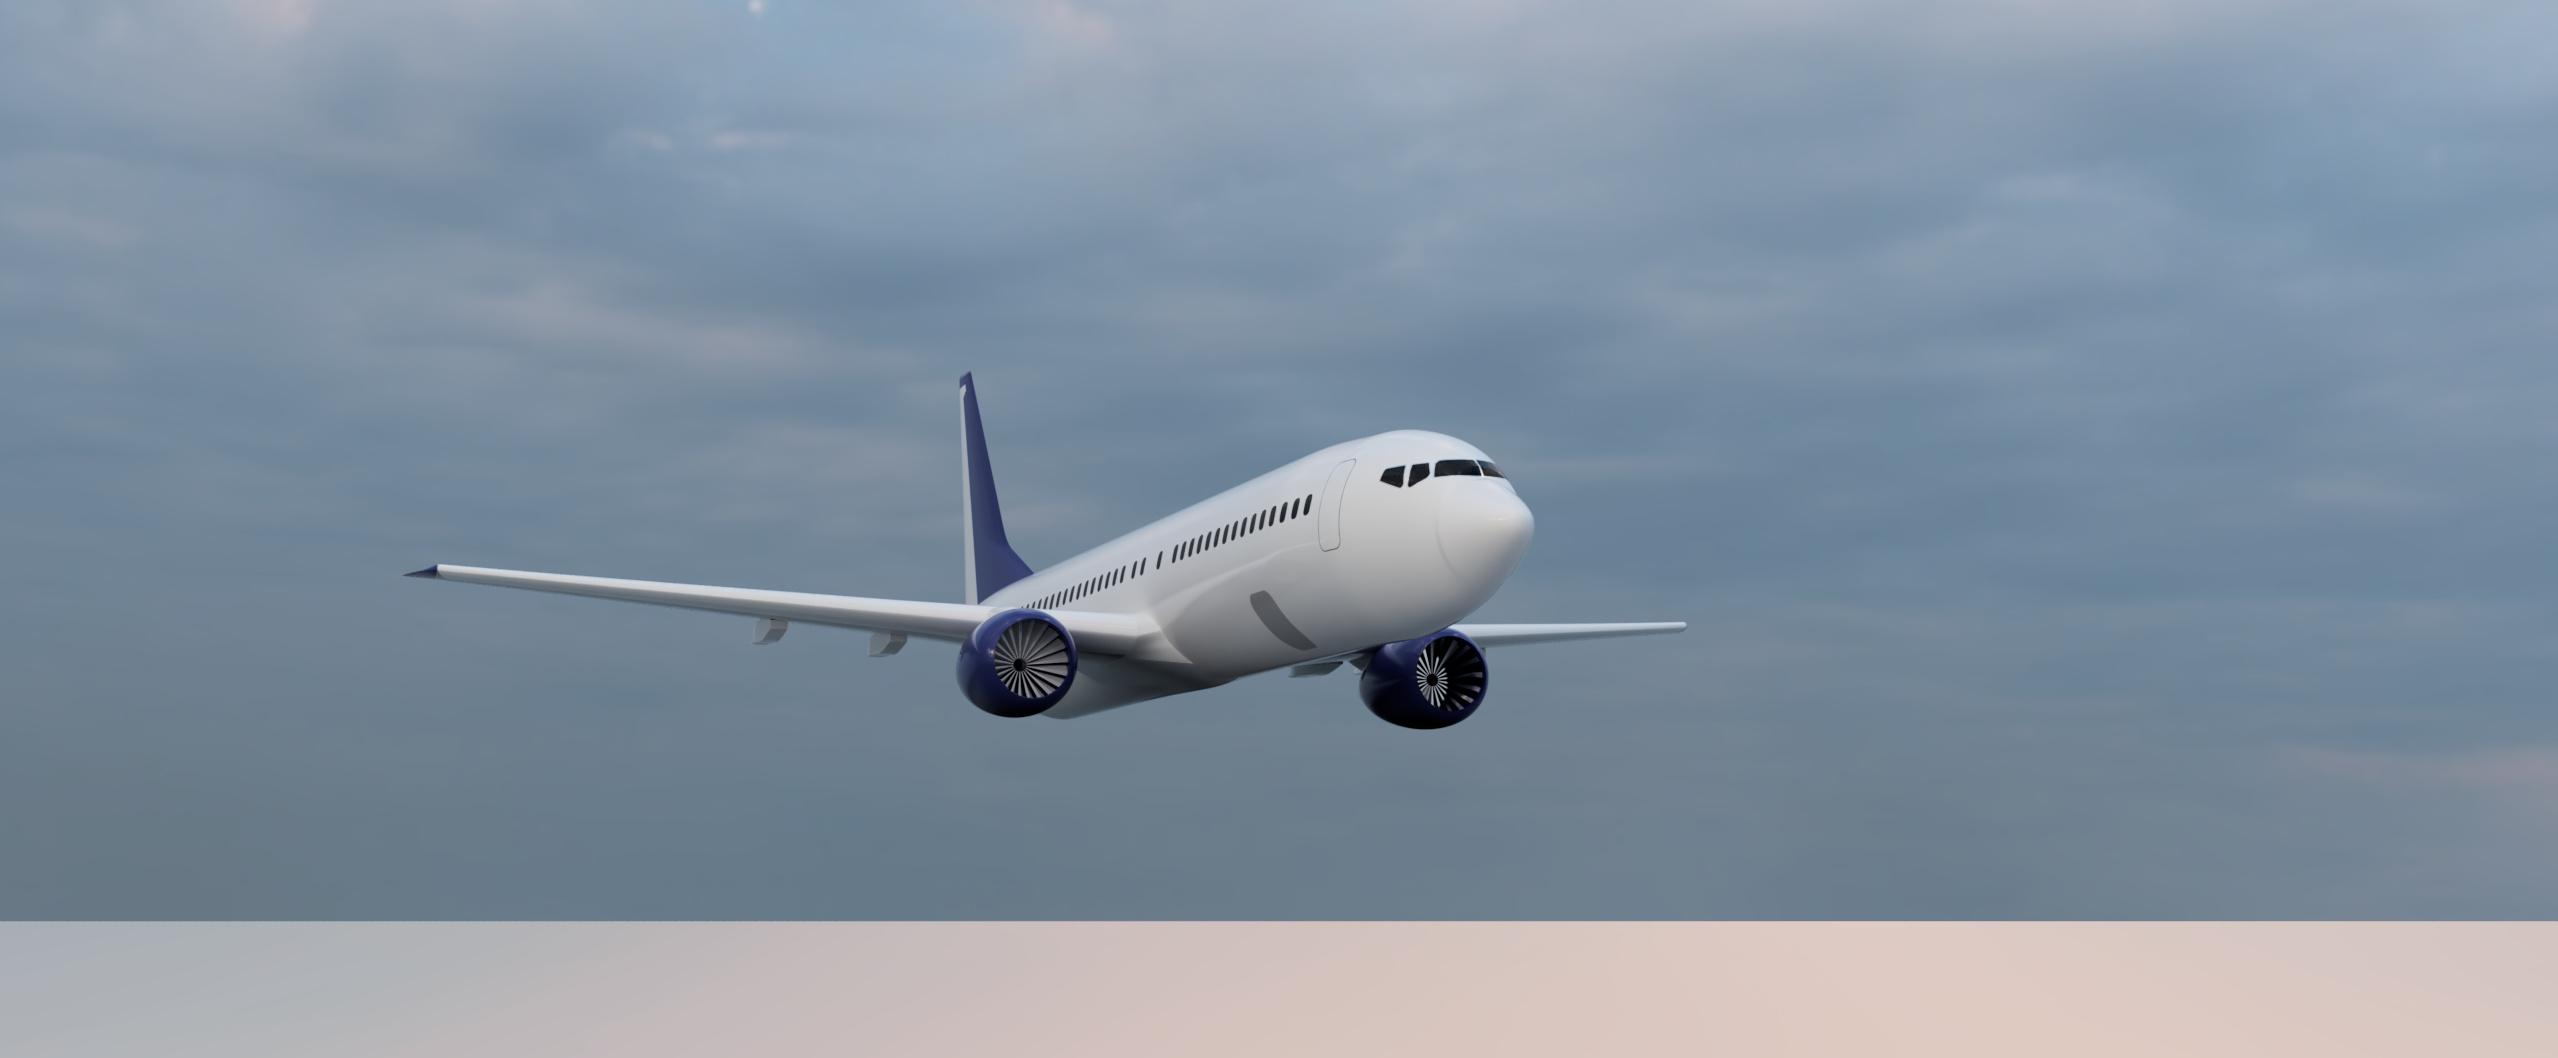
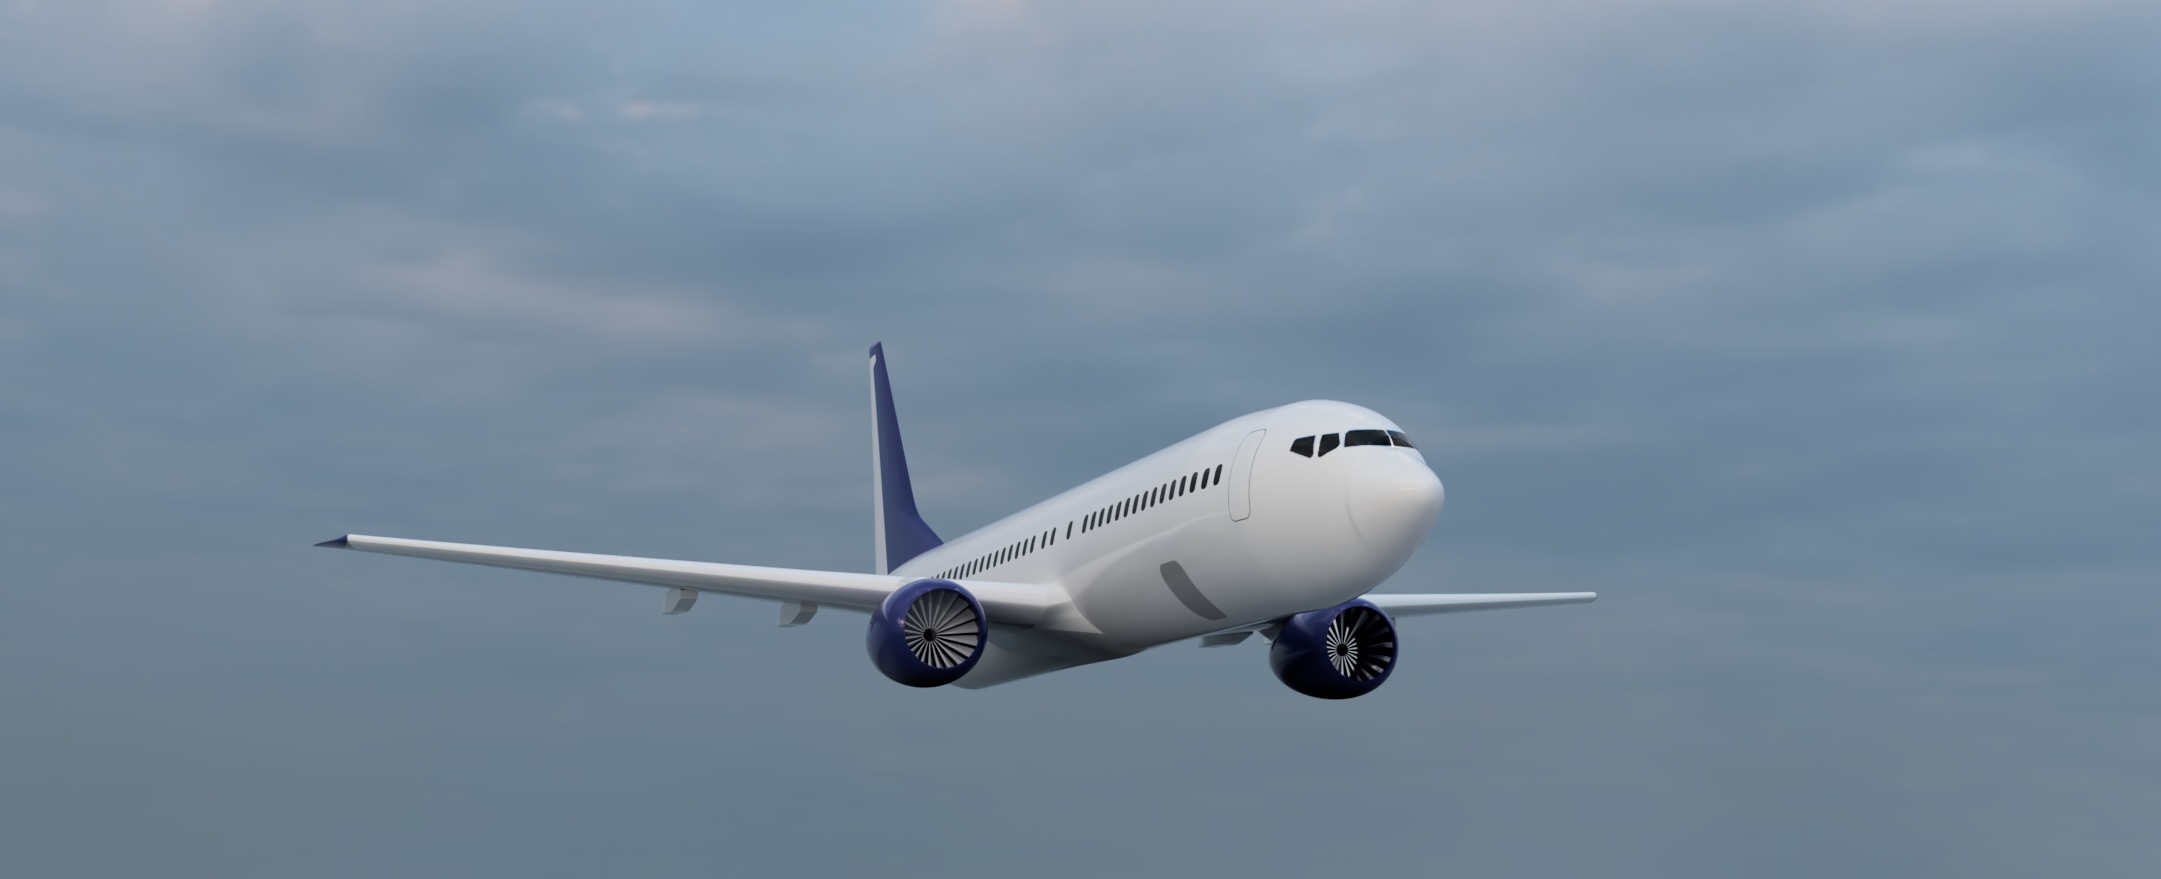
feat: simplify gallery cover image in ProjectModal

diff --git a/components/project-modal.tsx b/components/project-modal.tsx
@@ -132,13 +132,11 @@ export function ProjectModal({ project, onClose }: ProjectModalProps) {
           {detail?.layout === "gallery" && (
             <div className="space-y-8">
               {/* Cover image */}
-              <div className="aspect-video w-full overflow-hidden rounded-xl border border-white/10">
-                <img
-                  src={detail.images[0]?.src || "/placeholder.svg"}
-                  alt={detail.images[0]?.alt || project.title}
-                  className="h-full w-full object-cover object-top"
-                />
-              </div>
+              <img
+                src={detail.images[0]?.src || "/placeholder.svg"}
+                alt={detail.images[0]?.alt || project.title}
+                className="w-full rounded-xl border border-white/10"
+              />
 
               {/* Description */}
               <p className="text-sm md:text-base leading-relaxed" style={{ color: "#e5e7eb" }}>